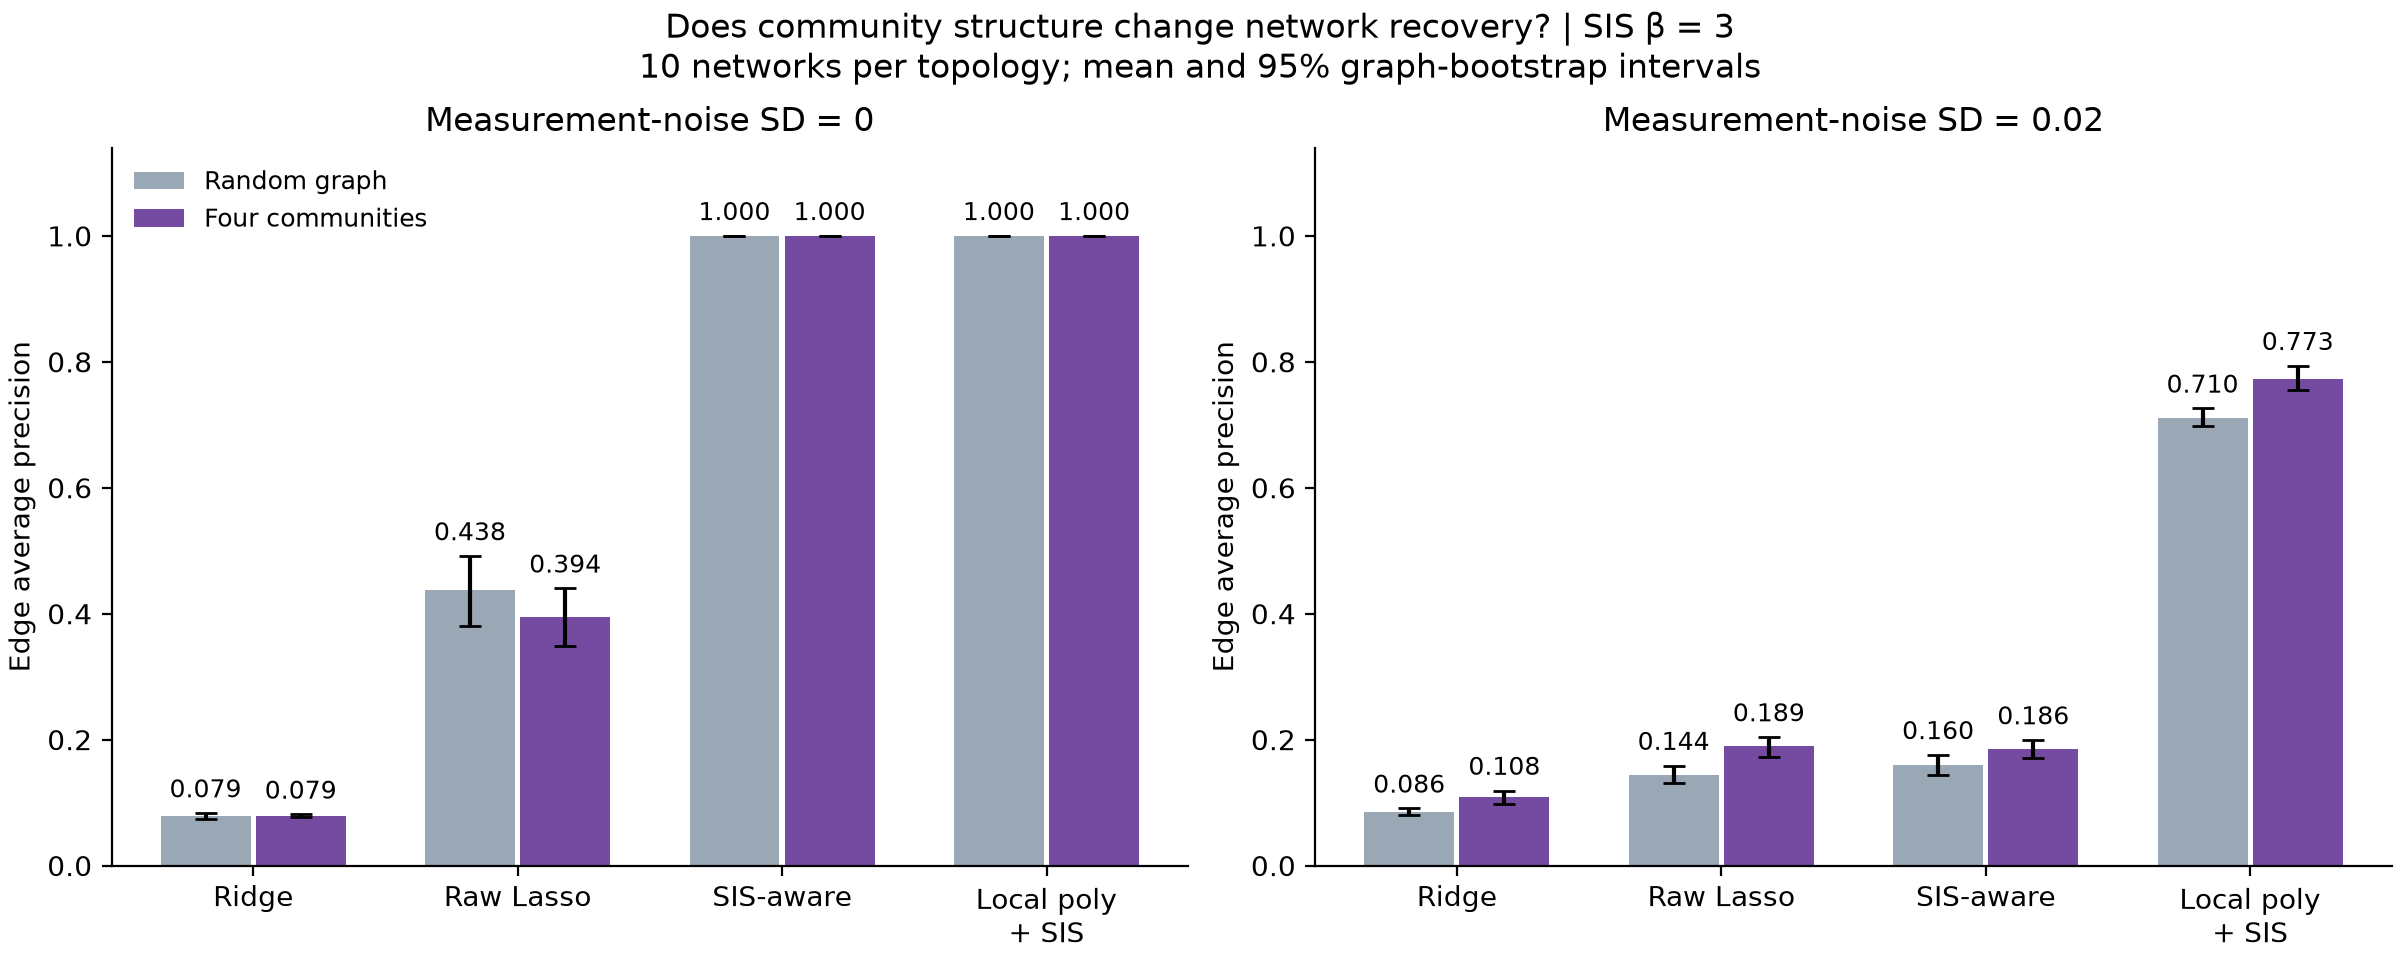
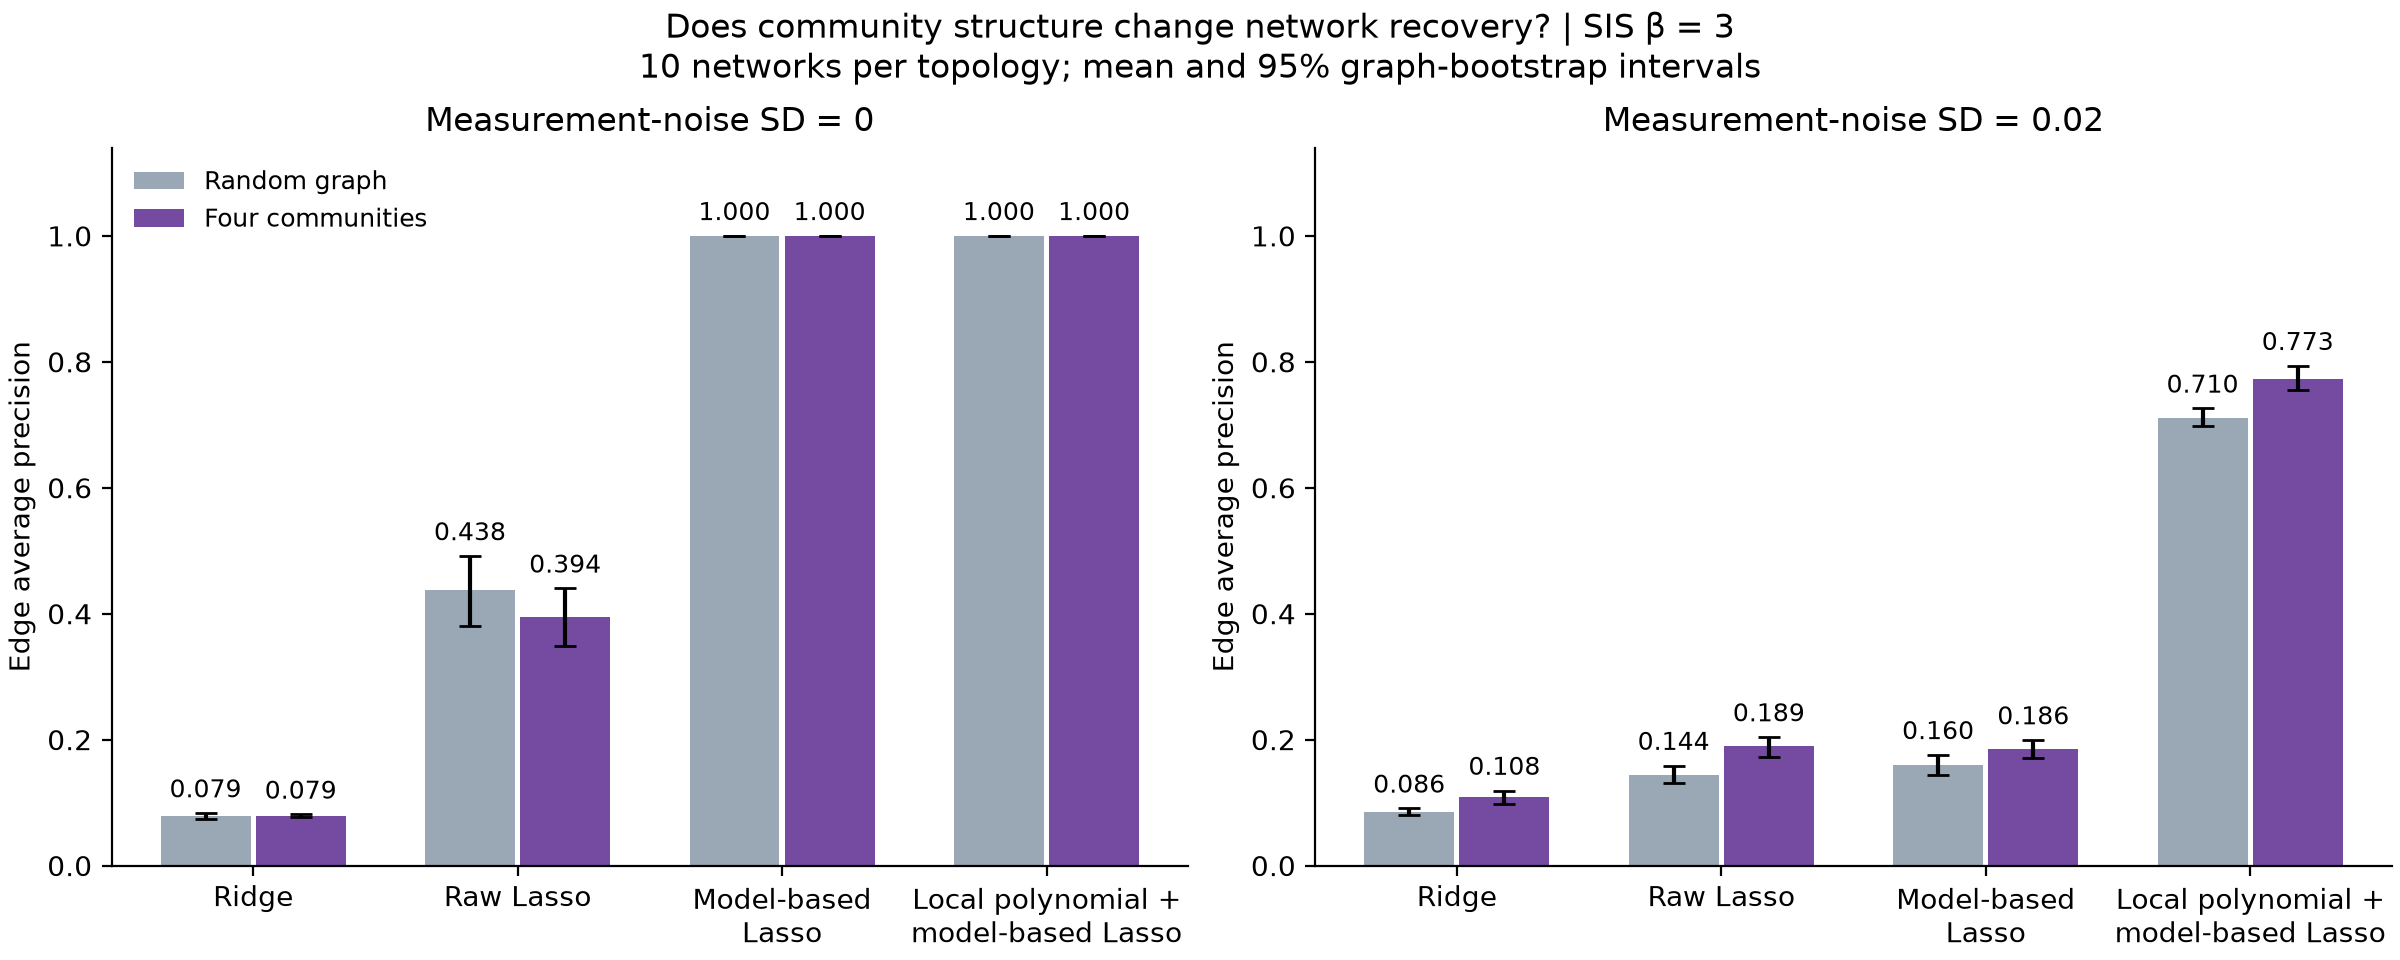
Clarify network recovery method names

Changed region(s): [[0.7812, 0.9062, 1.0, 1.0], [0.2812, 0.9062, 0.5, 1.0]]

diff --git a/scripts/sis_local_poly_report.py b/scripts/sis_local_poly_report.py
@@ -21,7 +21,7 @@ from make_report import independent_ap
 OUT = ROOT/'results/sis_local_poly'
 SOURCE = ROOT/'results/sis'
 METHODS = ['ridge', 'lasso', 'sis_aware', 'local_poly']
-LABELS = {'ridge':'Ridge', 'lasso':'Raw Lasso', 'sis_aware':'SIS-aware', 'local_poly':'Local polynomial + SIS'}
+LABELS = {'ridge':'Ridge', 'lasso':'Raw Lasso', 'sis_aware':'Model-based Lasso', 'local_poly':'Local polynomial +\nmodel-based Lasso'}
 COLORS = {'ridge':'#8d99a7', 'lasso':'#b86829', 'sis_aware':'#167f83', 'local_poly':'#754ba1'}
 
 
@@ -148,7 +148,7 @@ def plots(rows, summary, windows):
         ax.set(title=LABELS[method], xticks=[0,1], xticklabels=['0','0.02'], yticks=range(3),
                yticklabels=['0.8','1.5','3.0'], xlabel='Measurement-noise SD', ylabel='Spreading strength β')
     fig.colorbar(im, ax=axes, label='Edge average precision')
-    fig.suptitle('Local polynomial preprocessing | mean ± SD across 10 graphs')
+    fig.suptitle('SIS dynamics | local polynomial preprocessing | mean ± SD across 10 graphs')
     fig.savefig(OUT/'recovery_comparison.png',dpi=180); plt.close(fig)
     fig, axes = plt.subplots(1, 3, figsize=(13,4), layout='constrained')
     for ax, beta in zip(axes, SIS['beta']):
@@ -158,7 +158,7 @@ def plots(rows, summary, windows):
         ax.axhline(300/9900,color='#aaa',ls='--',lw=1)
         ax.set(title=f'β = {beta:g}',xlabel='Recall',ylabel='Precision',xlim=(0,1),ylim=(0,1))
     axes[0].legend(loc='upper right',fontsize=8)
-    fig.suptitle('Edge recovery with measurement-noise SD 0.02')
+    fig.suptitle('SIS dynamics | edge recovery with measurement-noise SD 0.02')
     fig.savefig(OUT/'precision_recall_noisy.png',dpi=180); plt.close(fig)
     fig, axes = plt.subplots(1, 3, figsize=(13,4), layout='constrained')
     for ax, beta in zip(axes, SIS['beta']):
@@ -169,7 +169,7 @@ def plots(rows, summary, windows):
         ax.axhline(0,color='#aaa',ls='--',lw=1)
         ax.set(title=f'β = {beta:g}',xticks=range(5),xticklabels=['Raw','5','9','15','21'],
                xlabel='Local polynomial window',ylabel='Validation RMSE change vs raw (mean ± SD)')
-    fig.suptitle('Window selection from training trajectories | noise SD 0.02')
+    fig.suptitle('SIS dynamics | window selection from training trajectories | noise SD 0.02')
     fig.savefig(OUT/'window_selection.png',dpi=180); plt.close(fig)
 
 
@@ -232,7 +232,7 @@ def preprocessing_picture():
             ax.plot(times[radius:-radius],smooth[radius:-radius],color=COLORS['local_poly'],lw=2,label='Local polynomial')
         ax.set(title=f'Node {node}',xlabel='Time',ylabel='Infection probability')
     axes[-1].legend(fontsize=8)
-    fig.suptitle(f'Training trajectory preprocessing | seed 1001, β = 3, noise SD 0.02, selected window {window}')
+    fig.suptitle(f'SIS training trajectory preprocessing | seed 1001, β = 3, noise SD 0.02, selected window {window}')
     fig.savefig(OUT/'preprocessing_example.png',dpi=180); plt.close(fig)
 
 

diff --git a/scripts/community_report.py b/scripts/community_report.py
@@ -20,7 +20,7 @@ from community_recovery import CONFIG, community_system, write_mixed_csv
 from make_report import independent_ap
 
 METHODS = CONFIG['methods']
-LABELS = {'ridge':'Ridge','lasso':'Raw Lasso','sis_aware':'SIS-aware','local_poly':'Local polynomial + SIS'}
+LABELS = {'ridge':'Ridge','lasso':'Raw Lasso','sis_aware':'Model-based Lasso','local_poly':'Local polynomial +\nmodel-based Lasso'}
 
 
 def verify(out, seeds, pilot):
@@ -174,7 +174,7 @@ def figures(summary,out,n):
         bars(ax,'random',noise,'average_precision',-.18,'#9aa7b5','Random graph')
         bars(ax,'community',noise,'average_precision',.18,'#754ba1','Four communities')
         ax.set(title=f'Measurement-noise SD = {noise:g}',ylabel='Edge average precision',ylim=(0,1.14),
-               xticks=range(4),xticklabels=['Ridge','Raw Lasso','SIS-aware','Local poly\n+ SIS'])
+               xticks=range(4),xticklabels=['Ridge','Raw Lasso','Model-based\nLasso','Local polynomial +\nmodel-based Lasso'])
     axes[0].legend(loc='upper left',frameon=False,fontsize=9)
     interval_note = f'{n} networks per topology; mean and 95% graph-bootstrap intervals' if n>1 else 'Single-network pilot'
     fig.suptitle(f'Does community structure change network recovery? | SIS β = 3\n'+interval_note)
@@ -184,7 +184,7 @@ def figures(summary,out,n):
         bars(ax,'community',noise,'within_recall_at_300',-.18,'#167f83','Within-community edges (240)')
         bars(ax,'community',noise,'bridge_recall_at_300',.18,'#c78539','Bridge edges (60)')
         ax.set(title=f'Measurement-noise SD = {noise:g}',ylabel='Recall among top 300 positive edge scores',ylim=(0,1.14),
-               xticks=range(4),xticklabels=['Ridge','Raw Lasso','SIS-aware','Local poly\n+ SIS'])
+               xticks=range(4),xticklabels=['Ridge','Raw Lasso','Model-based\nLasso','Local polynomial +\nmodel-based Lasso'])
     axes[0].legend(loc='upper left',frameon=False,fontsize=8)
     interval_note = f'Mean and 95% bootstrap intervals across {n} networks' if n>1 else 'Single-network pilot'
     fig.suptitle(f'Which connections are recovered? | four communities, SIS β = 3\n'+interval_note)

diff --git a/scripts/sis_aware_report.py b/scripts/sis_aware_report.py
@@ -1,4 +1,4 @@
-"""Independent checks and comparison of SIS-aware and raw-state regressions."""
+"""Independent checks and comparison of Model-based Lasso and raw-state regressions."""
 import csv
 import hashlib
 import json
@@ -17,7 +17,7 @@ from make_report import independent_ap
 OUT=ROOT/'results/sis_aware'
 SOURCE=ROOT/'results/sis'
 METHODS=['ridge','lasso','sis_aware']
-LABELS={'ridge':'Ridge','lasso':'Raw-state Lasso','sis_aware':'SIS-aware'}
+LABELS={'ridge':'Ridge','lasso':'Raw-state Lasso','sis_aware':'Model-based Lasso'}
 COLORS={'ridge':'#8d99a7','lasso':'#b86829','sis_aware':'#107f83'}
 
 
@@ -154,7 +154,7 @@ def plots(rows,summary):
             if j==0: ax.set_ylabel('Precision')
     fig.legend(handles=[Line2D([],[],color=COLORS[m],label=LABELS[m]) for m in METHODS],
                loc='outside lower center',ncol=3,frameon=False)
-    fig.suptitle('Precision–recall | same observations and held-out trajectories')
+    fig.suptitle('SIS dynamics | precision–recall on paired observations')
     fig.savefig(OUT/'precision_recall.png',dpi=180); plt.close(fig)
 
 

diff --git a/docs/EXPERIMENTS.md b/docs/EXPERIMENTS.md
@@ -126,7 +126,7 @@ intervals. `paired_noise_effects.csv` holds the paired measurement-noise contras
 All 120 AP/RMSE/selection records and 60 selected Lasso optimality conditions were
 independently checked; no final-run solver warnings occurred. Maximum candidate
 KKT residual was 1.20e-7, below the 1e-6 tolerance. Eleven tests cover the linear
-and SIS baselines; the later SIS-aware extension brings the total to fourteen.
+and SIS baselines; the later Model-based Lasso extension brings the total to fourteen.
 
 The initial, incomplete run is retained locally in `.local_archive/results/sis_initial_grid/` with its
 source and protocol. Its ridge CV optimum reached the grid's lower boundary,
@@ -140,7 +140,7 @@ SIS uses independent transient trajectories, noise in probability units and
 trajectory-level validation. Increasing beta changes coupling and the observed
 trajectory distribution.
 
-## SIS-aware network recovery
+## Model-based Lasso network recovery
 
 `scripts/sis_aware.py` adds a third estimator using the known SIS functional form,
 recovery rate, spreading rate and sampling step. It regresses
@@ -168,7 +168,7 @@ and test-RMSE intervals, and four-panel true/recovered network illustrations.
 
 All 60 new fits completed and passed independent checks. Without measurement
 noise, all 30 fits achieve AP=1; at beta 3 the AP gain over raw Lasso is 0.562
-with paired 95% interval [0.508, 0.619]. With noise SD 0.02, SIS-aware AP is
+with paired 95% interval [0.508, 0.619]. With noise SD 0.02, Model-based Lasso AP is
 0.039, 0.062 and 0.160 across beta 0.8, 1.5 and 3, compared with raw Lasso's
 0.038, 0.083 and 0.144. The beta-3 gain interval [-0.004, 0.033] includes zero,
 and noisy test RMSE is worse than raw Lasso in every condition. Known dynamics
@@ -197,7 +197,7 @@ The regression is
 on `h * beta * (1-smoothed_state[i]) * smoothed_state[j]`, for `j != i`.
 Weights are nonnegative, with zero diagonal and an L1 penalty. Training-fold
 RMS scaling keeps the zero intercept. This uses the same known rates and
-sampling step as the SIS-aware estimator.
+sampling step as the Model-based Lasso estimator.
 
 Five whole-trajectory folds jointly select the window and regularization:
 
@@ -227,7 +227,7 @@ is stored under `results/sis_local_poly_pilot/`.
 All 60 local-polynomial fits completed. All 30 noiseless conditions select window 0
 and achieve AP=1. With measurement-noise SD 0.02:
 
-| SIS spreading strength | Raw-state Lasso | SIS-aware | Local polynomial + SIS |
+| SIS spreading strength | Raw-state Lasso | Model-based Lasso | Local polynomial + model-based Lasso |
 | --- | ---: | ---: | ---: |
 | 0.8 | 0.038 | 0.039 | **0.390** |
 | 1.5 | 0.083 | 0.062 | **0.637** |
@@ -238,7 +238,7 @@ precision-recall areas and 6000 selected local-polynomial nodewise KKT condition
 
 Noisy test RMSE (same raw one-step prediction task):
 
-| β | Raw Lasso | SIS-aware | Local polynomial + SIS |
+| β | Raw Lasso | Model-based Lasso | Local polynomial + model-based Lasso |
 | --- | ---: | ---: | ---: |
 | 0.8 | 0.026074 | 0.027519 | 0.027507 |
 | 1.5 | 0.025975 | 0.027430 | 0.027406 |
@@ -287,14 +287,14 @@ With measurement-noise SD 0.02:
 | --- | ---: | ---: | ---: | ---: |
 | Ridge | 0.108 [0.098, 0.119] | 0.152 | 0.093 | 0.028548 |
 | Raw Lasso | 0.189 [0.173, 0.204] | 0.290 | 0.197 | 0.025449 |
-| SIS-aware | 0.186 [0.171, 0.199] | 0.285 | 0.255 | 0.026893 |
-| Local polynomial + SIS | **0.773 [0.755, 0.794]** | **0.734** | **0.667** | 0.026854 |
+| Model-based Lasso | 0.186 [0.171, 0.199] | 0.285 | 0.255 | 0.026893 |
+| Local polynomial + model-based Lasso | **0.773 [0.755, 0.794]** | **0.734** | **0.667** | 0.026854 |
 
-For local polynomial + SIS, community-network AP exceeds random-network AP by
+For local polynomial + model-based Lasso, community-network AP exceeds random-network AP by
 0.062, with paired 95% interval [0.034, 0.088]. Its bridge recall is 0.0675 below
 internal recall, with paired interval [-0.0938, -0.0392] for bridge minus internal.
 Its AP gain over raw Lasso is 0.584 [0.566, 0.603]. Raw Lasso has the lowest noisy
-one-step test RMSE. Without measurement noise, both SIS-aware estimators recover
+one-step test RMSE. Without measurement noise, both model-based methods recover
 all true edges at the 300-edge budget on all ten graphs, with AP=1.
 
 Published figures, per-run metrics, all CV candidate scores, paired intervals,

diff --git a/README.md b/README.md
@@ -11,7 +11,7 @@ Four completed experiments use ten independently generated 100-node,
 | --- | --- | ---: | --- |
 | Noisy linear diffusion | Lasso and ridge | 180 | [Linear baseline](reference_results/baseline/) |
 | Nonlinear SIS dynamics | Raw-state Lasso and ridge | 120 | [SIS comparison](reference_results/sis/) |
-| Known SIS dynamics | Nonnegative sparse regression | 60 additional | [SIS-aware comparison](reference_results/sis_aware/) |
+| Known SIS dynamics | Nonnegative sparse regression | 60 additional | [Model-based Lasso comparison](reference_results/sis_aware/) |
 | Local polynomial preprocessing | Smoothed-state and derivative regression | 60 additional | [Local polynomial comparison](reference_results/sis_local_poly/) |
 
 PNG figures and CSV tables can be viewed directly on GitHub.
@@ -26,7 +26,7 @@ PNG figures and CSV tables can be viewed directly on GitHub.
 - **Good predictions do not guarantee network recovery.** For noiseless SIS
   at spreading strength 3, raw-state Lasso's mean AP is 0.438, while its test
   RMSE is only 0.153 times the persistence predictor's RMSE.
-- **Knowing the SIS equation helps in the noiseless setting.** The SIS-aware
+- **Knowing the SIS equation helps in the noiseless setting.** The Model-based Lasso
   estimator achieves AP=1 in all 30 noiseless conditions. With measurement noise,
   it does not consistently outperform raw-state Lasso.
 - **Local polynomial preprocessing improves recovery with measurement noise.**
@@ -34,21 +34,21 @@ PNG figures and CSV tables can be viewed directly on GitHub.
 
 Mean AP across ten graphs, with measurement-noise SD 0.02:
 
-| SIS spreading strength | Raw-state Lasso | SIS-aware | Local polynomial + SIS |
+| SIS spreading strength | Raw-state Lasso | Model-based Lasso | Local polynomial + model-based Lasso |
 | --- | ---: | ---: | ---: |
 | 0.8 | 0.038 | 0.039 | **0.390** |
 | 1.5 | 0.083 | 0.062 | **0.637** |
 | 3 | 0.144 | 0.160 | **0.710** |
 
 Local polynomial preprocessing jointly selects the smoothing window and L1 penalty
-using five trajectory folds. Paired 95% intervals on its AP gain over SIS-aware are:
+using five trajectory folds. Paired 95% intervals on its AP gain over Model-based Lasso are:
 
 - β=0.8: +0.350 [+0.315, +0.381].
 - β=1.5: +0.574 [+0.557, +0.592].
 - β=3: +0.550 [+0.531, +0.573].
 
 These intervals resample ten paired graph/trajectory realizations.
-The SIS-aware estimator knows the dynamics and rates and imposes nonnegative
+The Model-based Lasso estimator knows the dynamics and rates and imposes nonnegative
 weights. SIS states are mean-field infection probabilities.
 
 ![Network recovery with measurement noise](reference_results/sis_local_poly/network_example_noisy.png)
@@ -96,11 +96,11 @@ This uses the published baseline metrics. To plot a fresh run, add
 On macOS/Linux, activate with `source .venv/bin/activate`; the remaining commands
 are identical. Use `--jobs 1` to limit parallel CPU use. Nineteen unit tests cover
 simulation, edge direction, validation separation, solver equivalence and the
-SIS-aware regression algebra, local polynomial derivatives and QP refinement. Figure/table scripts also reconcile saved scores and
+Model-based Lasso regression algebra, local polynomial derivatives and QP refinement. Figure/table scripts also reconcile saved scores and
 solver optimality conditions.
 
 Optional pilot runs use seed 5420, excluded from final summaries: add `--pilot`
-to the fitting commands. Run the SIS pilot before the SIS-aware and local polynomial pilots.
+to the fitting commands. Run the SIS pilot before the Model-based Lasso and local polynomial pilots.
 
 **Output policy:** generated trajectories, fitted coefficients and runtime
 protocols go in the ignored `results/` directory. The repository includes
@@ -132,7 +132,7 @@ repository. They are not part of this code repository.
 
 Read [the detailed experiment notes](docs/EXPERIMENTS.md) for parameters,
 validation, uncertainty and convergence checks. The initial
-experiment follows the course guide's Lasso exercise. The SIS-aware extension
+experiment follows the course guide's Lasso exercise. The Model-based Lasso extension
 uses model-based identification with nonnegative sparse regression.
 
 - [Shahrampour and Preciado: topology identification via power spectral analysis](https://arxiv.org/abs/1308.2248).

diff --git a/reference_results/README.md b/reference_results/README.md
@@ -4,9 +4,9 @@ Curated snapshots of the completed experiments:
 
 - [Linear diffusion](baseline/): 180 Lasso/ridge fits.
 - [SIS with raw-state regressions](sis/): 120 fits.
-- [SIS-aware comparison](sis_aware/): 60 additional fits, compared with the 120 SIS baselines.
+- [Model-based Lasso comparison](sis_aware/): 60 additional fits, compared with the 120 SIS baselines.
 
-- [Local polynomial SIS recovery](sis_local_poly/): 60 additional fits with window and penalty selection.
+- [Local polynomial + model-based Lasso](sis_local_poly/): 60 additional fits with window and penalty selection.
 
 Each folder contains figures, aggregate and per-fit metric tables, the recorded
 protocol and a verification summary. PNG and CSV files can be inspected on GitHub.
